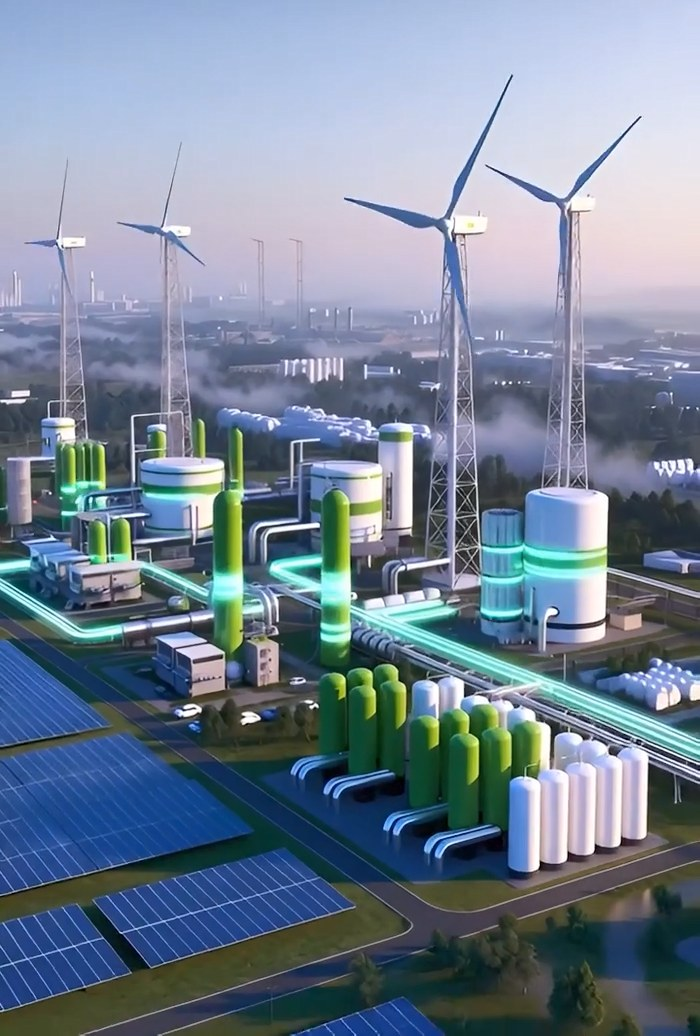
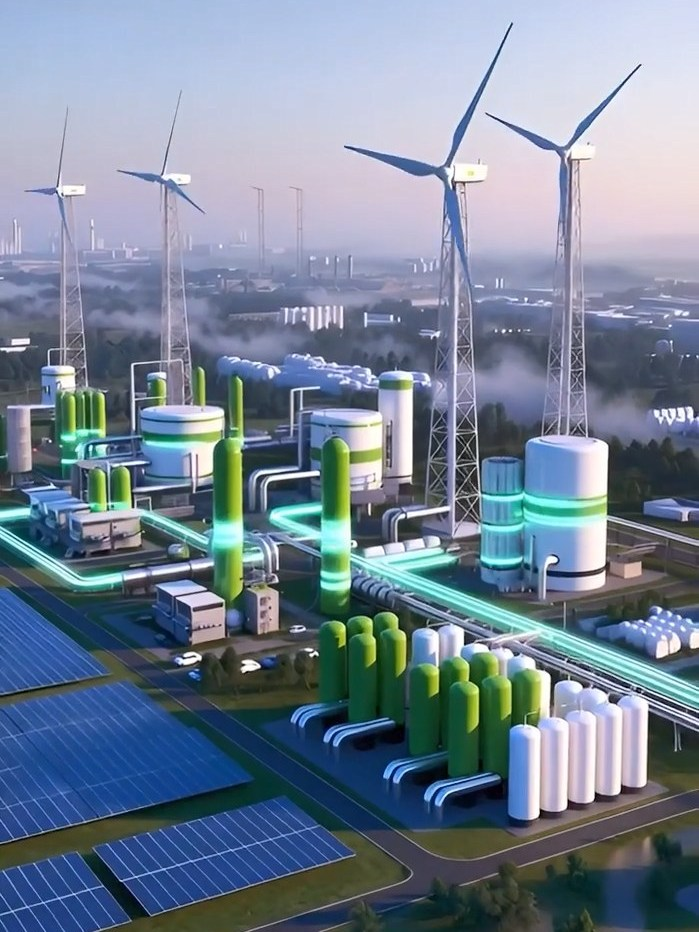
feat: portrait media frames for services on home and services pages

diff --git a/src/data/services.js b/src/data/services.js
@@ -5,6 +5,7 @@ export const services = [
     id: 'wind-energy',
     slug: 'wind-energy',
     title: 'Wind Energy Transport',
+    orientation: 'portrait',
     shortDescription: 'Careful route and vehicle planning for blades, towers and nacelles.',
     description: 'Turbine blades, towers and nacelles are long, heavy and fragile. We plan the vehicle, the route and the escort before the first wheel turns.',
     image: '/videos/services/wind.jpg',
@@ -18,11 +19,12 @@ export const services = [
     id: 'heavy-specialised-transport',
     slug: 'heavy-specialised-transport',
     title: 'Heavy & Specialised Transport',
+    orientation: 'portrait',
     shortDescription: 'The right trailer, route and handling for oversized machinery and project cargo.',
     description: 'Oversized machinery and project cargo need more than a bigger truck. We match the right trailer to the weight, height and width of your load.',
-    image: '/videos/services/multimodal.jpg',
+    image: '/videos/services/heavy.jpg',
     video: '/videos/services/multimodal.mp4',
-    poster: '/videos/services/multimodal.jpg',
+    poster: '/videos/services/heavy.jpg',
     alt: 'Project cargo moving through a multimodal logistics hub',
     icon: '🚛',
     points: ['Low-bed, multi-axle and hydraulic trailers', 'Load securing and lashing plans', 'Permits and route approvals handled for you', 'Machinery loading and unloading support'],
@@ -31,6 +33,7 @@ export const services = [
     id: 'route-survey-modification',
     slug: 'route-survey-modification',
     title: 'Route Survey & Modification',
+    orientation: 'landscape',
     shortDescription: 'Identify clearances, weight limits and obstacles before an oversized load moves.',
     description: 'Before an oversized load moves, we drive the route. Low bridges, tight turns and weak culverts are found early and planned around.',
     image: surveyImage,
@@ -42,6 +45,7 @@ export const services = [
     id: 'renewable-energy-logistics',
     slug: 'renewable-energy-logistics',
     title: 'Renewable Energy Logistics',
+    orientation: 'portrait',
     shortDescription: 'Careful delivery of solar, wind and storage equipment to project sites.',
     description: 'Solar panels, wind equipment and storage systems are moving to sites across the country. We handle delivery with the care these loads need.',
     image: '/videos/services/renewable.jpg',

diff --git a/src/pages/Services.css b/src/pages/Services.css
@@ -35,10 +35,12 @@ body:has(.services-page) .header .header-nav a.active { color: #D61F10; border-b
 .services-chip-list a.is-active { border-color: #D61F10; background: #D61F10; color: #fff; }
 
 .services-list { padding: 0; }
-.services-row { display: grid; grid-template-columns: minmax(0,1fr) minmax(0,1fr); align-items: center; gap: clamp(30px,6vw,72px); padding: 60px 0; border-bottom: 1px solid #e9e5e4; scroll-margin-top: 148px; }
+.services-row { display: grid; grid-template-columns: minmax(0,2fr) minmax(0,3fr); align-items: center; gap: clamp(30px,6vw,72px); padding: 60px 0; border-bottom: 1px solid #e9e5e4; scroll-margin-top: 148px; }
 .services-row:nth-child(even) .services-panel { order: 2; }
 .services-row:nth-child(even) .services-copy { order: 1; }
 .services-panel { position: relative; width: 100%; aspect-ratio: 4/3; overflow: hidden; border: 1px solid #e4e4ea; border-radius: 16px; background: #f5f5f5; box-shadow: 0 10px 20px rgba(0,0,0,.1); }
+.services-panel.orientation-portrait { width: 100%; max-width: 360px; aspect-ratio: 3/4; margin-inline: auto; }
+.services-panel.orientation-landscape { aspect-ratio: 4/3; }
 .service-media-element { position: absolute; inset: 0; display: block; width: 100%; height: 100%; object-fit: cover; }
 .services-scene,.services-photo { position: absolute; inset: 0; display: block; width: 100%; height: 100%; }
 .services-scene { z-index: 0; }
@@ -92,7 +94,8 @@ body:has(.services-page) .header .header-nav a.active { color: #D61F10; border-b
   .services-row { grid-template-columns: 1fr; gap: 22px; padding: 40px 0; }
   .services-row:nth-child(even) .services-panel,.services-row:nth-child(even) .services-copy { order: initial; }
   .services-copy { order: 2; }
-  .services-panel { order: 1; }
+  .services-panel { order: 1; max-width: 320px; margin-inline: auto; }
+  .services-panel.orientation-portrait { max-width: 320px; }
   .services-panel-lowbed { order: 1; aspect-ratio: 16/9; width: 100%; }
   .services-panel-video.is-portrait-video { max-width: 300px; }
   .services-copy h2 { font-size: 27px; }

diff --git a/src/components/ServiceMedia.jsx b/src/components/ServiceMedia.jsx
@@ -3,12 +3,13 @@ import { useReducedMotion } from 'framer-motion';
 
 const mediaClassName = 'service-media-element';
 
-export default function ServiceMedia({ type = 'image', src, poster, alt }) {
+export default function ServiceMedia({ type = 'image', src, poster, alt, orientation = 'landscape', className = '' }) {
   const panelRef = useRef(null);
   const videoRef = useRef(null);
   const reduceMotion = useReducedMotion();
   const [videoFailed, setVideoFailed] = useState(false);
   const showVideo = type === 'video' && !reduceMotion && !videoFailed;
+  const isPortrait = orientation === 'portrait';
 
   useEffect(() => {
     const video = videoRef.current;
@@ -40,12 +41,13 @@ export default function ServiceMedia({ type = 'image', src, poster, alt }) {
   return (
     <div
       ref={panelRef}
-      className="services-panel service-reveal relative w-full aspect-[4/3] overflow-hidden rounded-2xl shadow-lg bg-neutral-100"
+      className={`services-panel ph service-media-frame relative w-full overflow-hidden rounded-2xl shadow-lg bg-neutral-100 ${isPortrait ? 'orientation-portrait max-w-[360px] aspect-[3/4] mx-auto' : 'orientation-landscape aspect-[4/3]'} ${className}`.trim()}
+      style={{ aspectRatio: isPortrait ? '3 / 4' : '4 / 3' }}
     >
       {showVideo ? (
         <video
           ref={videoRef}
-          className={mediaClassName}
+          className={`${mediaClassName} absolute inset-0 h-full w-full object-cover object-center`}
           autoPlay
           muted
           loop
@@ -60,8 +62,8 @@ export default function ServiceMedia({ type = 'image', src, poster, alt }) {
         </video>
       ) : (
         <img
-          className={mediaClassName}
-          src={type === 'video' ? poster : src}
+          className={`${mediaClassName} absolute inset-0 h-full w-full object-cover object-center`}
+          src={type === 'video' ? (poster || src) : src}
           alt={alt}
           loading="lazy"
           decoding="async"

diff --git a/src/pages/Home.jsx b/src/pages/Home.jsx
@@ -7,6 +7,7 @@ import { services } from '../data/services.js';
 import { useReveal } from '../hooks/useReveal.js';
 import Hero from '../components/Hero.jsx';
 import Fleet from '../components/Fleet.jsx';
+import ServiceMedia from '../components/ServiceMedia.jsx';
 import './HomeServices.css';
 
 const TOTAL_DURATION = 6;
@@ -41,32 +42,19 @@ const serviceCardVariants = {
 };
 
 function ServiceCard({ service, reduceMotion }) {
-  const [videoFailed, setVideoFailed] = useState(false);
-
   return (
     <motion.article
       className="sc"
       variants={serviceCardVariants}
       whileHover={reduceMotion ? undefined : { y: -6, transition: { duration: 0.25, ease: 'easeOut' } }}
     >
-      <div className="ph">
-        {service.video && !reduceMotion && !videoFailed ? (
-          <video
-            autoPlay
-            muted
-            loop
-            playsInline
-            preload="metadata"
-            poster={service.poster}
-            aria-label={`${service.title} video`}
-            onError={() => setVideoFailed(true)}
-          >
-            <source src={service.video} type="video/mp4" />
-          </video>
-        ) : (
-          <img src={service.poster || service.image} alt={service.alt} loading="lazy" />
-        )}
-      </div>
+      <ServiceMedia
+        type={service.video ? 'video' : 'image'}
+        src={service.video || service.image}
+        poster={service.poster || service.image}
+        alt={service.alt}
+        orientation={service.orientation}
+      />
       <div className="sb">
         <div className="ib" aria-hidden="true">{service.icon}</div>
         <h3>{service.title}</h3>

diff --git a/src/pages/HomeServices.css b/src/pages/HomeServices.css
@@ -1,7 +1,7 @@
 .home-services-grid { display: grid; grid-template-columns: minmax(0,1fr); gap: 16px; }
 .home-services-grid .ph img,
 .home-services-grid .ph video { display: block; width: 100%; height: 100%; object-fit: cover; }
-.home-services-grid .ph img { transform: scale(1.04); animation: kb 12s ease-in-out infinite alternate; transition: filter .4s; }
+.home-services-grid .ph img { transform: none; animation: none; transition: filter .4s; }
 .home-services-grid .sc:hover { transform: none; }
 .home-services-grid .sc:hover .ph img { filter: saturate(1.15) brightness(1.06); }
 @media (min-width: 640px) { .home-services-grid { grid-template-columns: repeat(2,minmax(0,1fr)); } }

diff --git a/src/pages/Services.jsx b/src/pages/Services.jsx
@@ -17,6 +17,8 @@ function ServiceRow({ service, index }) {
         src={service.video || service.image}
         poster={service.poster || service.image}
         alt={service.alt}
+        orientation={service.orientation}
+        className="service-reveal"
       />
       <div className="services-copy service-reveal">
         <span className="services-number">{String(index + 1).padStart(2, '0')}</span>
